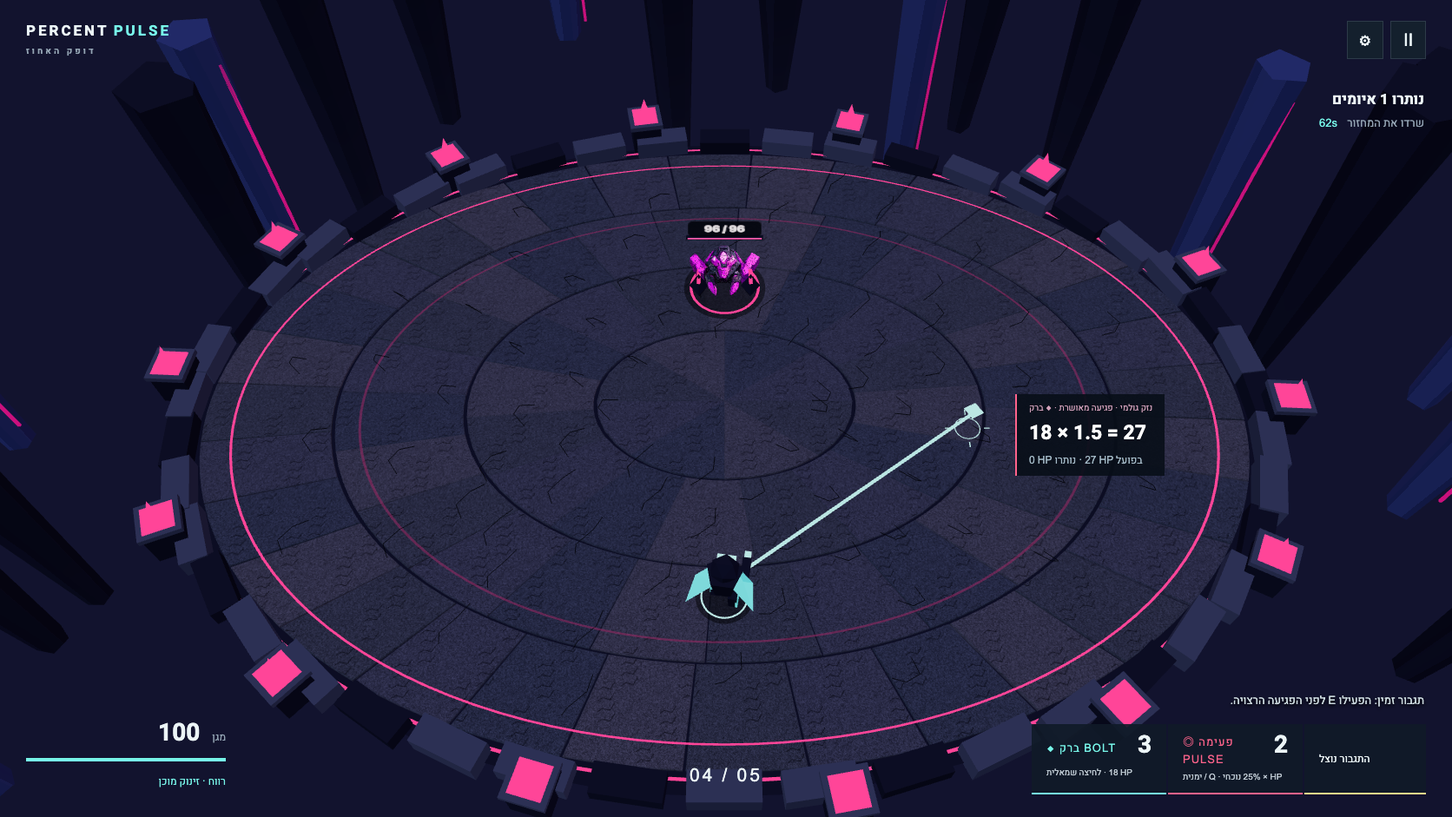
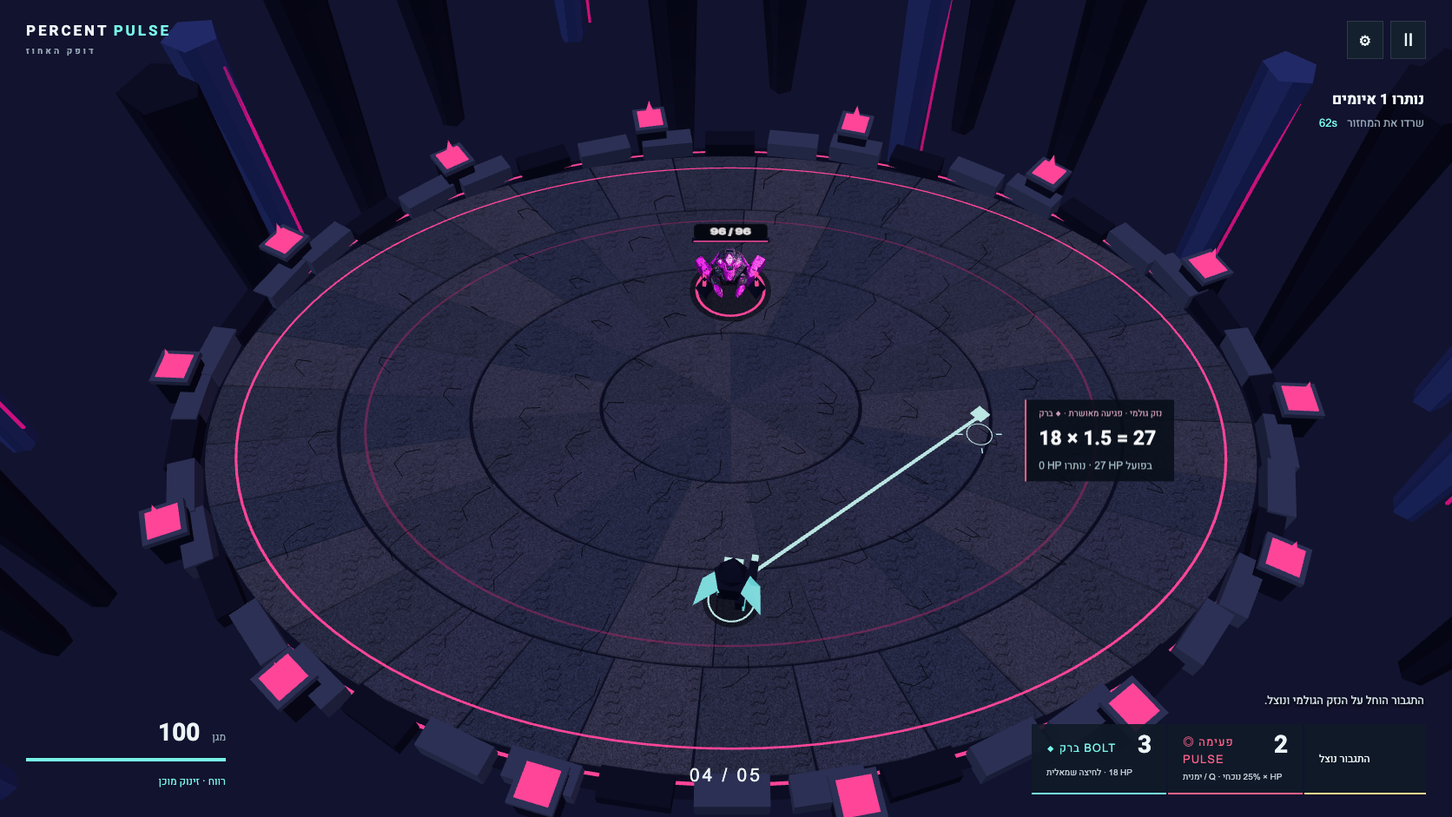
Finish independent visual review and release evidence; preserve exact event history

diff --git a/src/game.ts b/src/game.ts
@@ -19,7 +19,7 @@ export class Game {
   ammo={bolt:2,pulse:1};boost={available:false,armed:false};cooldown=0;
   receipts:Receipt[]=[];receiptStart=0;events:{t:number;event:string;data:unknown}[]=[];
   lastMessage='';messageTime=0;preview=true;effectsReduced=false;nextHazard=1.8;hazardId=0;hurtCount=0;
-  log(event:string,data:unknown={}){this.events.push({t:+this.time.toFixed(3),event,data});if(this.events.length>500)this.events.shift();}
+  log(event:string,data:unknown={}){this.events.push({t:+this.time.toFixed(3),event,data:structuredClone(data)});if(this.events.length>500)this.events.shift();}
   start(){this.encounter=0;this.time=0;this.kills=0;this.retries=0;this.dashCount=0;this.hintUses=0;this.receipts=[];this.events=[];this.setup();}
   setup(){
     const c=ENCOUNTERS[this.encounter];this.mode='playing';this.elapsed=0;this.nextHazard=1.8;this.reason='';this.cooldown=0;this.hazards=[];this.shots=[];this.receiptStart=this.receipts.length;

diff --git a/src/style.css b/src/style.css
@@ -6,3 +6,4 @@
 @media(min-width:701px){.vitals{top:auto;bottom:32px;left:30px;width:230px}.vitals>b{font-size:28px}.weapons{left:auto;right:30px;transform:none;bottom:26px}.weapons button{width:155px}.weapons button>span{letter-spacing:1px}.weapons small{font-size:10px}#wave{position:fixed;bottom:32px;left:50%;transform:translateX(-50%);font-size:21px}#wave small{display:none}#receipt{bottom:auto;max-width:240px;padding:9px 14px;border-left:2px solid var(--pink);background:#080e18e8}#receipt>bdi{font-size:23px;color:#fff}#receipt small{color:#d3a1ba}#receipt>span{color:#a6bcc9}#target{top:93px}#message{bottom:125px}}
 /* Target-anchored receipts must not stretch between top and mobile bottom. */
 #receipt{bottom:auto;max-width:min(260px,calc(100vw - 24px));height:auto}
+@media(max-width:700px){#receipt{top:225px!important;left:16px!important;bottom:auto;max-width:calc(100vw - 32px)}}

diff --git a/tests/game.test.ts b/tests/game.test.ts
@@ -12,6 +12,15 @@ const fixture = (encounter = 0) => {
   if (encounter) { g.encounter = encounter; g.setup(); }
   return g;
 };
+
+test('local event quantities are historical snapshots rather than mutable resource references', () => {
+  const g = fixture();
+  g.aim = {x:g.enemies[0].x,z:g.enemies[0].z};
+  assert.equal(g.fire('bolt'), true);
+  assert.deepEqual(g.ammo, {bolt:1,pulse:1});
+  const start = g.events.find(e=>e.event==='encounter-start')!;
+  assert.deepEqual((start.data as {ammo:typeof g.ammo}).ammo, {bolt:2,pulse:1});
+});
 const aim = (g: Game, enemyIndex: number) => {
   const target = g.enemies[enemyIndex];
   g.aim = { x: target.x, z: target.z };

diff --git a/docs/QA_NOTES.md b/docs/QA_NOTES.md
@@ -1,67 +1,76 @@
 # Independent math and playability QA
 
-Reviewer role: independent math/playability contributor. The gameplay lead owns integration and all Git actions; this reviewer writes only assigned curriculum/tests/QA evidence files.
+**Final status:** **27/27 math/state tests** and **11/11 independent production UI checks passed**. The final portrait rendering recheck also passed after the fixes below. Native focus loss under browser automation remains unverified; it is not reported as a pass.
 
-## Reviewed before implementation
+The independent reviewer owns curriculum, math/state tests, control checks, and visual review. The lead owns game integration, production builds, all Git actions, and the complete adaptive five-encounter browser replay. No automation establishes enjoyment, student mastery, learning gains, or Workbook endorsement.
 
-- Read `AGENTS.md`, `docs/BUILD_HANDOFF.md`, `docs/CREW_COMMON.md`, and `docs/USER_REQUEST.md`.
-- Read actual saved Workbook blocks for percent meaning, percent change, and consecutive percent changes. See `CURRICULUM.md` for exact module routes, block evidence, and game mappings.
-- Independently verified all five handoff allocations using exact fractions. Encounter 3 leaves `189/4` after two Pulses; encounter 5 leaves `135/2`.
-- Pure multiplier commutativity is explicitly present in the saved consecutive-percent-changes module. Mixed flat/percent order dependence is valid because a flat subtraction is an added operation.
+## Verified numerical and state rules
 
-## Required implementation checks
+`npm test` passes 27 tests across `tests/math.test.ts` and `tests/game.test.ts`:
 
-- [ ] Exact `96 → 72 → 54`, `72 HP` crossover, mixed-order witness, commuting pure factors.
-- [ ] Boost multiplies unboosted raw damage and waits for a confirmed valid hit.
-- [ ] Fractions, overkill clamp, no percent-only kill threshold.
-- [ ] Invalid/dead target consumes neither ammo nor boost; simultaneous impacts serialize.
-- [ ] All encounter witnesses replay through state rules and preserve finite ammunition.
-- [ ] Real input combat, miss/retry, failure/recovery, pause/restart.
-- [ ] Encounter 5 begins unhinted; optional help use recorded truthfully.
-- [ ] Hebrew/LTR receipts, resizing, edge aim, focus release, context-menu suppression.
-- [ ] Production build, console/network, actual visible Tripo model.
+- Exact rational normalization and arithmetic; `96 → 72 → 54`; `72 HP` immediate unboosted crossover.
+- Mixed flat/percentage order `57` versus `123/2`; pure-factor commutativity and `100 → 96` for `−20% / +20%`.
+- Boosted raw damage `27`/`36`; raw versus applied fractional overkill; no damage/boost use on zero HP; invalid negative HP rejection.
+- 160 percentage-only hits remain strictly positive; serialized updated-HP effects; cooldown prevents duplicate same-frame fire commands.
+- All five finite-ammunition witnesses replay through confirmed-hit state rules. Misses/dead rays preserve ammo and boost; a real next valid hit consumes the boost.
+- Wrong order leaves exactly `63/8 HP`; running out of finishing Bolts explains why remaining percentage-only shots cannot reach zero; retry restores resources.
+- Pause freezes relevant state, retry scopes displayed receipts to the current attempt, and local historical events remain available. Event payloads are snapshots: later ammunition use cannot rewrite an encounter-start record.
+- Diagonal movement, dash cooldown, ellipse bounds, and arc forward/rear/radial/angular/wraparound geometry.
+- Transfer starts at `120 + 36`, `B6/P2`, preview off, no automatic help use, with a distinct initial formation: anchor `(-6,-3)`, skitter `(7,-6)`.
 
-## Evidence log
+Read the actual saved Workbook modules and evidence mapping in [CURRICULUM.md](../CURRICULUM.md). Pure multiplier commutativity is explicitly present in the reviewed source; mixed flat/percentage order dependence is an original game application.
 
-Implementation and browser evidence pending. No playability, performance, learning, or completion claim is made at this stage.
+## Independent production controls
 
-### 24 October 2026 — exact model and state checks
+`node tests/browser-ui-qa.mjs` completed **11 checks** against `http://localhost:4182` in Google Chrome, using **1280×720** desktop and **390×844** portrait viewports:
 
-`npm test` passed **21/21 tests** after adding `tests/math.test.ts` and `tests/game.test.ts`.
+1. Malformed saved settings recover to valid defaults.
+2. Real mouse Bolt confirms `18 → 0`, spends one charge, and unavailable boost stays hidden.
+3. Escape pause/resume freezes simulation and preserves player position.
+4. No-input failure and the visible retry button restore HP/ammunition; a new attempt's empty log contains no prior attempt's hit.
+5. Actual settings controls mute audio, reduce effects, remap Bolt to K, and the remapped key fires successfully.
+6. Right-click Pulse changes exact HP and suppresses the browser context menu.
+7. Portrait resize preserves progress, and viewport-edge aiming remains finite; receipt height stays below 180 px.
+8. F enters/exits fullscreen without resetting gameplay.
+9. Blur handler pauses, clears a held movement key, and resumes without continuing that stale input. **Method: explicit blur event**, because headless tab switching emitted no observable focus loss.
+10. Actual touch aim preserves ammo, explicit Pulse changes `18 → 27/2`, CDP touch movement drives the virtual stick, and touch dash activates.
+11. No page/console errors, failed resource responses, or external runtime requests in this run.
 
-Exact model checks: rational normalization/sign/zero denominator; `96 → 72 → 54`; unboosted `72 HP` crossover; mixed order `57` versus `123/2`; pure factor commutativity and `100 → 96`; boosted raw damage `27`/`36`; fractional overkill; zero-HP no-op; 160 percentage-only hits remaining positive; serialized current-HP effects; all five finite-ammunition witnesses.
+These control/visual results are retained after the final event-snapshot fix because it changes only copied trace payloads, not gameplay or rendering. Earlier raw traces may contain the corrected historical ammo alias; the new nested-resource regression directly covers that defect.
 
-State checks use public `Game` actions with targeted aim, fixed ticks, and encounter fixtures. They do not inject victory. They cover misses and dead-target rays preserving ammunition/boost; boost expiration on a confirmed hit; cooldown blocking duplicate same-frame commands; pause freezing state; no-input damage/failure and quick retry; all five allocations through confirmed-hit rules; wrong order leaving exactly `63/8 HP` and recovering initial resources; unhinted transfer state/help recording; diagonal normalization, bounds, and dash cooldown.
+Raw action report/captures are in ignored `artifacts/qa-ui/`; the reproducible test script is committed. Browser metadata identifies the real Chrome channel; no unmeasured GPU or FPS claim is inferred from a launch flag.
 
-The title and browser application were not yet available when these checks ran. Browser UI/Chrome/model/performance evidence remains pending.
+The installed develop-web-game action client was also run and visually inspected beyond the title screen. A production Start → arrow movement → Space dash sequence reached live encounter 1, dash count 1, HP 100, and a loaded Tripo model, with no errors artifact. The lead and visual contributor repeated the installed-client/native-Chrome checks on the final scene; see [PLAYTEST.md](../PLAYTEST.md).
 
-### Issues raised with integration lead
+## Visual findings fixed and rechecked
 
-1. **Unwinnable positive HP with only Pulses remaining.** Current state fails only when both ammo counters are zero. If all Bolts are spent while a living enemy remains and one or more Pulses are unused, no finite percentage-only sequence can kill it. The state can explain this immediately (or offer a clearly visible current-encounter retry) rather than leave the player waiting. Lead notified.
-2. **Negative HP API contract.** The resolver's shipped state callers clamp to nonnegative HP, but an external call with negative HP produces negative applied damage. Recommend rejecting negative HP explicitly. Lead notified; no reachable gameplay failure established.
-3. **Pacing requires actual play review.** Mandatory containment cycles of 35/62/62/62/75 seconds with only 1–8 required enemy hits can leave substantial dodge-only time. Floor threats must keep decisions readable and active; arithmetic feasibility alone does not establish balanced or engaging combat.
+The crew found these concrete issues during development; the lead fixed them and independent QA checked the relevant consequences:
 
-### 24 October 2026 — fixes and independent regression recheck
+| Finding | Fix / recheck |
+| --- | --- |
+| Positive HP stranded with only percentage attacks | Immediate truthful failure explanation; exact state regression passes. |
+| Negative HP could yield negative applied damage | Explicit rejection; regression passes. |
+| Encounter-start ammunition referenced mutable live resources | `Game.log` copies payloads with `structuredClone`; an independent focused regression confirms initial `B2/P1` remains unchanged after a real Bolt reduces live ammo to `B1/P1`. |
+| Retry displayed an earlier attempt's killing receipt | Attempt boundary for text/HUD/replay; state and actual failure-panel checks pass. |
+| Hidden boost control overrode the HTML hidden attribute | Explicit hidden styling; actual UI check passes. |
+| Touch aim automatically fired Bolt | Touch aim-only path plus explicit attack buttons; actual touch check passes. |
+| Captured touch stick survived input clearing | Input clearing resets captured touch state; movement/recovery checks pass. |
+| Deterministic capture had stale HUD | Time hook forces HUD update; actual 72/96 receipt screenshot agrees with state. |
+| Missing favicon returned 404 | Local icon; final UI request/error checks are clean. |
+| Settings interlude could advance behind its modal | Simulation freezes while settings is open. |
+| Encounter 5 reused an earlier formation | Distinct `(-6,-3)/(7,-6)` positions; independent screenshot review and lead full replay agree. |
+| Portrait receipt stretched across the arena | Remove conflicting bottom anchoring; height regression passes. |
+| Portrait camera was beyond fixed fog limits | Camera-relative fog preserves desktop and reveals the portrait floor/actors. |
+| Portrait receipt covered the live target | Phone receipt docks above the arena; final portrait regression checks target is not covered. |
 
-`npm test` now passes **26/26 tests**. The lead fixed the first two reported issues: negative HP is rejected, and spending the last Bolt while positive enemy HP remains immediately explains that percentage-only attacks cannot reach zero. Added regressions cover both.
+`node tests/browser-portrait-qa.mjs` rechecked the final **390×844 touch viewport** through Start, touch aim, and Pulse. Exact remaining HP is `27/2`, the receipt is bounded and does not contain the target's screen point, and there are no console/page errors. The reviewer opened the actual before/after images. The final published capture is [touch-portrait.png](evidence/touch-portrait.png).
 
-Further QA findings fixed in source and covered where appropriate:
+The canonical generated target and actual 1672×941 hit/arc/boost/recovery captures were opened and compared. See [VISUAL_REVIEW.md](VISUAL_REVIEW.md) for corrected composition and remaining asset/feedback differences. The generated target is never used as implementation evidence.
 
-- Retry receipts now have an attempt boundary. The prior attempt's killing Bolt no longer appears as damage in a new attempt where no shot landed. Historical local events remain available. State regression passes.
-- The unavailable boost control is hidden reliably with explicit `[hidden]` styling.
-- Canvas touch aim no longer automatically fires a Bolt; explicit touch buttons choose the attack. Input clearing also resets the captured virtual stick.
-- Deterministic stepping now forces HUD synchronization, addressing the old 90 ms DOM throttle during immediate captures.
-- A local favicon was added after the independent Chrome run identified its precise 404 URL.
-- New geometric regressions verify the player boundary's ellipse equation, forward arc versus safe rear/center/side, inner/outer radial margins, angular edges, and `−π/+π` wraparound. They isolate the geometric subsystem from unrelated enemy damage; they are not gameplay victory evidence.
+## Full-flow evidence and limits
 
-### Production action-client evidence
+The lead's final real-keyboard/mouse adaptive replay completed all five encounters after the changed transfer formation and focus watchdog: **296.08 active seconds + 32 interlude seconds**, **29 confirmed shots**, **0 retries**, **0 help uses**, and no console errors, failed responses, or external requests. This reviewer independently checked the saved hit/boost/failure/transfer images against the numerical rules. Full replay implementation and report scope are in [PLAYTEST.md](../PLAYTEST.md).
 
-Ran the installed `/Users/acedzn/.codex/skills/develop-web-game/scripts/web_game_playwright_client.js` against `http://localhost:4182` with actual Start → arrow movement → Space dash input. Inspected `artifacts/qa-production-input/shot-0.png` and `state-0.json`: live encounter 1 at 1.02 s, player x = 7.98 after movement/dash, HP 100, dash count 1, cooldown about 1.97 s, and `Tripo pulse-sentinel.glb loaded`. No errors artifact was emitted. This was the earlier rectangular arena build, before the generated-reference visual revision.
+Native Chrome focus retesting by the visual contributor did **not** show the pause overlay after switching to its own blank tab and back, including a short batch intended to reduce tool latency. Browser/debugger focus emulation may affect that observation. Source blur/visibility handlers, a focus watchdog, and the explicit blur-handler test are present, but native focus loss is **unverified / observed no pause under this instrumentation**. Ordinary Escape pause is verified. No native-focus pass is claimed.
 
-A supplemental Google Chrome channel UI run confirmed malformed-setting recovery, a mouse Bolt receipt `18 → 0`, unavailable boost hidden, and Escape pause/resume preserving player state. It also visibly reached no-input failure and displayed its retry panel. An immediate visibility assertion preceded the old HUD throttle, so the first supplemental run stopped before clicking that failure-panel button; it is not a complete UI pass. The next attempt encountered slow startup under host load and the old favicon 404. Final stable-build UI recheck remains pending; `tests/browser-ui-qa.mjs` records the exact actions and diagnostics.
-
-### Generated target review before revision
-
-Inspected `docs/visual-targets/gameplay-v1.png` as a generated design target, never as a gameplay capture. Compared with the actual production input capture and the lead's early `docs/evidence/pulse-72.png`.
-
-Matching elements: elevated arena view, cyan player/flat attack versus magenta enemies/percentage attack, visible reticle, numerical HP and finite attack controls. Material differences raised with the lead: circular stone floor/perimeter and deep environment versus a rectangular grid slab; much larger/readable target silhouettes; current/max HP bars; nearby receipt; bottom-corner HUD hierarchy. The early Pulse screenshot also had stale fixed HUD text despite correct 72-HP mesh/state. The lead is revising these and synchronizing capture. Final comparable review belongs in `docs/VISUAL_REVIEW.md` after the revised live screenshot is available.
+The generated anchor is static, the procedural player/skitter are simpler than the reference, and clearing targets leaves substantial dodge-only survival time. These are visible scope/pacing limits. Automated completion does not establish human fun or educational outcomes. Early HMR/rebuild races, RAF-polling stalls, and old 404 diagnostics are historical failures that were diagnosed and rechecked; they are not folded into a false uninterrupted first-pass claim.

diff --git a/docs/VISUAL_REVIEW.md b/docs/VISUAL_REVIEW.md
@@ -1,0 +1,44 @@
+# Generated target versus playable build
+
+Independent review, 24 October 2026. The image in `visual-targets/` is a **generated design target**. Images in `evidence/` are actual browser captures of the implemented Three.js game. The generated bitmap is not used as the playable scene.
+
+## Comparable primary state
+
+- Target: [gameplay-v1.png](visual-targets/gameplay-v1.png), **1672 × 941**. Prompt and camera correction: [PROMPT.md](visual-targets/PROMPT.md).
+- Actual: [pulse-72.png](evidence/pulse-72.png), **1672 × 941, DPR 1**, production preview `http://localhost:4182`, Google Chrome.
+- Shared mathematical witness: encounter **2 / 5**; player **100 HP**; anchor **72 / 96 HP** after a **25% × 96 = 24** hit; live skitter **18 HP**; ammunition **4 Bolts / 1 Pulse**. The actual screenshot's receipt, HP label, ammunition, and target preview agree.
+- Actual camera: shallow player follow, approximately **55°** elevation, perspective projection, with the whole playable floor visible. Pointer projection uses this same camera.
+
+| Review area | Implemented agreement | Visible difference / limit |
+| --- | --- | --- |
+| Scene and framing | Raised elliptical stone arena, low segmented rim, pink channels/crystal pylons, blue-black floating architecture, elevated whole-arena view. | The target has denser broken architecture and a more dramatic surrounding void. The build uses simpler repeated columns and a cleaner floor composition. |
+| Silhouettes | Cyan controllable combatant, magenta generated anchor, smaller pointed skitter; separate readable targeting rings. | The target's large hulking humanoid anchor is represented by a smaller static hovering armored sentinel. The player and skitter use simpler procedural meshes. These are not rigged recreations. |
+| Real 3D assets | The imported Chrome/Tripo GLB is visible as the magenta anchor in the actual captures; depth, ground contact, lighting, facing, and world labels come from the live scene. | Decorative model geometry is not authoritative collision geometry. Asset chronology, normal GLB export, processing, hashes, and limitations are in [ASSETS.md](../ASSETS.md). The target arrived after the original Tripo task had been submitted; no retroactive image-first claim is made. |
+| HUD hierarchy | Health/dash bottom-left, finite weapons bottom-right, encounter bottom-center, compact world-adjacent receipt and current/max anchor HP. The skitter's full-HP bar is filled consistently. | The build also shows a compact top target readout and survival-cycle objective. Its rectangular controls are quieter than the illustrated weapon cards. |
+| Hebrew and formulas | Hebrew is the default UI. Weapon labels include ברק / פעימה. Formula groups are isolated LTR; the actual `25% × 96 = 24`, `72 / 96`, and boosted `18 × 1.5 = 27` read in the correct order. | English attack aliases remain for the input guide. Small secondary text is less prominent than the generated reference. |
+| Input and action | Actual movement, aiming, finite flat/percentage shots, dash, pause, failure, and retry change the scene/state. UI controls were independently exercised rather than inferred from the image. | A screenshot alone does not demonstrate action parity; the action scripts and QA evidence below supply that separate evidence. |
+| Hit feedback | State-driven shot beam, magenta percentage impact, target HP change, ammunition decrement, and adjacent receipt. Raw and applied damage are named separately. | The target has a larger starburst, more bloom, and a cyan trail at its illustrated percentage hit. The live percentage shot is magenta and its impact is more restrained. |
+| Threat feedback | Actual magenta floor arc, strip sweeps, and burst warnings charge before damage. Sector/radial geometry is shared with the authoritative rules. | The target illustrates a broad glowing sector. The build's arc is an exact annular band with restrained opacity, plus two additional warning shapes. |
+| Depth and lighting | Cel shading, dark stone, emissive cyan/magenta accents, occlusion, floating structure, contact rings, and perspective depth are visible in actual play. | Texture detail is procedural grain/cracks rather than the target's painted rubble. No pixel-identical reconstruction is claimed. |
+
+## Additional action and recovery evidence
+
+[arc-telegraph.png](evidence/arc-telegraph.png) is an actual **1672 × 941** capture reached by moving through live encounter 2 after the first Pulse. It shows the charged curved danger band while the anchor remains **72 / 96**, skitter **18 HP**, player **100 HP**, and ammo **4 / 1**. This supplies the floor-arc evidence absent from the instantaneous primary hit frame.
+
+[boost-27.png](evidence/boost-27.png) shows a confirmed next-hit boost, **18 × 1.5 = 27**, applied **27 HP**, with **0 HP** remaining on the 27-HP skitter. [failure.png](evidence/failure.png) shows a real no-input defeat and an immediate retry control. Its empty attempt receipt log does not misrepresent a prior attempt's killing shot. [transfer.png](evidence/transfer.png) records the final changed-value encounter with expected-damage preview initially disabled; the final formation is verified in the state/browser checks.
+
+The visual contributor also captured real user-Chrome input and failure states: [chrome-manual-inputs.jpg](evidence/chrome-manual-inputs.jpg), [chrome-manual-failure.jpg](evidence/chrome-manual-failure.jpg). These are actual browser images, not generated mockups.
+
+## Review fixes and checks
+
+The first playable capture had a rectangular grid slab, small silhouettes, corner-fixed receipt, and stale HUD during immediate deterministic captures. Review drove the stone ring/perimeter/environment revision, stronger cyan player, current/max HP label, target-adjacent receipt, bottom-corner HUD hierarchy, and forced HUD synchronization.
+
+Independent controls: [browser-ui-qa.mjs](../tests/browser-ui-qa.mjs) passed **11 checks** through actual keyboard, pointer, settings, fullscreen, and touch actions, with no page/console errors, failed resource responses, or external runtime requests in that run. Headless native tab-focus loss was not observable; its blur-handler check is explicitly identified as a synthetic blur event, not a native-focus pass. The visual contributor’s short native Chrome tab-switch retest still showed active play rather than a pause overlay under this instrumentation; native focus loss remains unverified. Source visibility/blur handlers and the frame watchdog are present; ordinary Escape pause is verified. See [QA_NOTES.md](QA_NOTES.md).
+
+The portrait capture exposed two rendering issues that were not revealed by numerical assertions: a vertically stretched receipt and fog hiding the distant camera's arena. The receipt height is now bounded and has a regression check. The final actual [touch-portrait.png](evidence/touch-portrait.png), **390 × 844**, was opened after adaptive fog and receipt docking were applied: floor/player/skitter are visible, the `25% × 18 = 4.5` receipt is 74 px high at the upper-left, and it no longer covers the live target. Exact remaining HP is `27/2`, with no console/page errors. See [QA_NOTES.md](QA_NOTES.md) for the scope.
+
+Domain verification is separate from image comparison: **27 exact math/state tests**, all five allocation witnesses, invalid/dead hits, boost timing, overkill, retry, pause, ellipse bounds, arc geometry, and historical event-resource snapshots. The final trace-only snapshot correction retains the prior gameplay/visual checks; its added nested-ammunition regression was independently run. See [CURRICULUM.md](../CURRICULUM.md), [QA_NOTES.md](QA_NOTES.md), and the lead's [PLAYTEST.md](../PLAYTEST.md) for current final counts and complete-flow evidence.
+
+## Remaining limits
+
+The build preserves the reference's arena view, action vocabulary, numerical state, color roles, and HUD hierarchy, with the asset/lighting/feedback approximations listed above. It is a playable browser slice, not a pixel-identical image reconstruction. The survival cycles include substantial dodge-only time after targets are cleared; automation verifies completion and consequences but does not establish that pacing is enjoyable. No student learning gains, human enjoyment, formal novelty acceptance, or Workbook endorsement is inferred from screenshots or automated play.

diff --git a/PLAYTEST.md b/PLAYTEST.md
@@ -4,15 +4,15 @@
 
 ## Rules and state
 
-`npm test`: **26/26 pass**. Independent tests cover exact96→72→54;72HP unboosted crossover; mixed100→57 vs61.5; commuting pure factors/opposite percentages; boost raw/applied/consumption; fractions and overkill;160 positive percent-only strikes; invalid/dead targets; serialized impacts; all five finite-ammo allocations; wrong-order63/8 remainder and recovery; pause; no-input failure; changed final values/no automatic help; movement/dash; exact ellipse bounds; arc radial/angular/wraparound geometry; and retry-scoped receipt logs.
+`npm test`: **27/27 pass**. Independent tests cover exact96→72→54;72HP unboosted crossover; mixed100→57 vs61.5; commuting pure factors/opposite percentages; boost raw/applied/consumption; fractions and overkill;160 positive percent-only strikes; invalid/dead targets; serialized impacts; all five finite-ammo allocations; wrong-order63/8 remainder and recovery; pause; no-input failure; changed final values/no automatic help; movement/dash; exact ellipse bounds; arc radial/angular/wraparound geometry; retry-scoped receipt logs, and immutable historical event quantities.
 
-`npm run build`: passes TypeScript and static Vite production build. Relative base, no backend/environment variables, bundled model/fonts/textures. The main JS chunk is approximately655kB (174kB gzip); Vite reports its normal500kB chunk warning. Runtime GLB is2,367,328bytes,35,988triangles. The entire generated output is approximately3.8MiB on disk. No source credentials, browser state or signed asset URLs are included.
+`npm run build`: passes TypeScript and static Vite production build. Relative base, no backend/environment variables, bundled model/fonts/textures. The main JS chunk is approximately655kB (174kB gzip); Vite reports its normal500kB chunk warning. Runtime GLB is2,367,328bytes,35,988triangles. The generated output contains3,084,766bytes of files (about3.08MB;3.8MiB allocated on this filesystem). No source credentials, browser state or signed asset URLs are included.
 
 ## Actual full production play
 
 `node tests/browser-playthrough.mjs` uses installed Google Chrome155.0.8059.85, headless,1672×941DPR1, against **http://localhost:4182**. It observes the public text hook, moves with actual keyboard events, aims/clicks with actual mouse events, arms the boost with E, dashes with Space, and uses only the documented fixed-step time hook. It never changes HP, ammo, encounters or a win state directly.
 
-The final major-scene run completed all five encounters: **296.08s active combat +32s interludes ≈5:28**,29 confirmed hits/29 trigger attempts,9 enemies destroyed,46 dashes, zero retries, zero help openings. Final HP60; final ammo0/0. Encounter5 began with120+36HP,6Bolts/2Pulses and expected-damage preview off. All console/page-error, failed-request, HTTP-error-response and external-runtime-request lists were empty. The same script separately reached failure through no-input play, clicked Retry, checked restored resources, paused/resumed, retried, and resized without changing mathematical state.
+The final complete run, including the new flanking formation in encounter5 and the focus watchdog, completed all five encounters: **296.08s active combat +32s interludes ≈5:28**,29 confirmed hits/29 trigger attempts,9 enemies destroyed,46 dashes, zero retries, zero help openings. Final HP40; final ammo0/0. Encounter5 began with120+36HP,6Bolts/2Pulses and expected-damage preview off. All console/page-error, failed-request, HTTP-error-response and external-runtime-request lists were empty. The same script separately reached failure through no-input play, clicked Retry, checked restored resources, paused/resumed, retried, and resized without changing mathematical state.
 
 Representative actual captures:
 
@@ -22,7 +22,7 @@ Representative actual captures:
 - `docs/evidence/transfer.png`: changed final values with preview initially off.
 - `docs/evidence/victory.png` and `failure.png`: actual completed run and no-input failure/retry UI.
 
-Small final UI corrections after that complete run: qualify the crossover text as unboosted, replace the consumed-boost toast, and prevent portrait receipts stretching between inline top and mobile bottom. The independent UI recheck covers those layout/control paths; the mathematical/gameplay logic is unchanged except the truthful boost toast.
+The complete run includes the unboosted crossover wording, truthful consumed-boost toast, new final formation, and frame focus watchdog. The last subsequent change only docks the phone receipt above the arena to keep it from covering enemies; independent portrait capture verifies that CSS-only correction.
 
 ## Installed action client
 
@@ -43,6 +43,10 @@ The visual contributor owns its dedicated Chrome Tripo and game tabs. Through th
 
 ## Independent review and limits
 
-See `docs/QA_NOTES.md` for findings/fixes and final controls results, and `docs/VISUAL_REVIEW.md` for generated-target versus actual-image comparison. Headless tab switching may not emit native blur; the reviewer distinguishes explicit handler testing from native focus evidence. Some runs were slow while five crews shared this AppleM2Max/32GiB host; temporary Vite rebuild404s and model-wait timeouts were isolated from stable-build results.
+See `docs/QA_NOTES.md` for findings/fixes and final controls results, and `docs/VISUAL_REVIEW.md` for generated-target versus actual-image comparison. The independent UI harness passed11/11 checks, including touch aiming, Pulse, joystick, dash, mute/remapping, fullscreen, context-menu suppression, portrait preservation and the explicit blur handler. Native user-Chrome tab switching under CUA/debugger instrumentation returned active without a pause overlay, so native automatic pause remains unverified in that environment; no pass is claimed. Blur/visibility listeners and a per-frame hidden/hasFocus watchdog are implemented; ordinary Escape/pause was verified through actual controls. Some runs were slow while five crews shared this AppleM2Max/32GiB host; temporary Vite rebuild404s and model-wait timeouts were isolated from stable-build results.
 
-Performance measurement and arc-action evidence are recorded in `docs/evidence/frame-measurement.json` and `arc-telegraph.png`. Its context must be read before interpreting frame intervals. Human difficulty/playtesting remains needed, especially the length of dodge-only containment intervals and the simpler model silhouettes relative to the generated illustration. No Vercel deployment has been made; the static build and configuration are ready for the user's later destination choice.
+The arc scene was measured over120 real requestAnimationFrame intervals on this Apple M2 Max/32GiB host using ANGLE Metal,1672×941DPR1: mean16.67ms, median16.7ms, p9516.8ms,197draw calls and46,438triangles. The deterministic simulation was held while rendering and HUD remained active; these are render-frame intervals, not a full-speed gameplay or mobile benchmark. Performance measurement and arc-action evidence are recorded in `docs/evidence/frame-measurement.json` and `arc-telegraph.png`. Its context must be read before interpreting frame intervals. Human difficulty/playtesting remains needed, especially the length of dodge-only containment intervals and the simpler model silhouettes relative to the generated illustration. No Vercel deployment has been made; the static build and configuration are ready for the user's later destination choice.
+
+Final installed-client release smoke also inspected: playing at0.9s, playerx7.98, one dash, HP100, generated model loaded, no errors artifact. Complete27-test math/state suite and static build pass. The local production server remains on4182; dev server on5182.
+
+Final trace-only correction: local event data is cloned when recorded, so initial ammunition never changes retrospectively as live resources are spent. The27th unit regression covers that historical snapshot; combat values/controls are unchanged.

diff --git a/progress.md b/progress.md
@@ -15,3 +15,12 @@ Interaction thesis: dash displacement/trail; telegraph-to-impact motion; brief h
 2026-10-24 integration checkpoint: exact BigInt damage and pure Game state built; 26 independent rule/state regressions pass. Full adaptive production Chrome155 keyboard/mouse replay completed five encounters at296.08s active simulation plus32s interludes, zero retries,29 confirmed hits/31 trigger attempts, no help. This predates the final image-target scene iteration; it is progression evidence, not final visual parity evidence. Initial installed-client screenshot inspected past Start; actual movement and dash confirmed. UI review found and fixed percent-only finisher softlock explanation, stale prior-attempt receipts, touch aim accidentally firing, stick focus cleanup, hidden boost display, settings/interlude simulation freeze, and deterministic UI synchronization. Explicit favicon added after resource404 diagnosis.
 
 Image-first steering: inspected root's selected imagegen target, exact prompts and manifest. No new Tripo submissions after steering. The existing paid45-credit magenta sentinel is compatible, optimized from953,215 to35,988 triangles/2,367,328bytes and imported as anchor decoration. Visual contributor is adapting the arena into stone-ring/void architecture with55° camera, cyan duelist and exact arc hazards. Lead aligned ellipse collision and HUD corner hierarchy/world receipts. Target is clearly labeled generated; actual captures stay separate. Final comparable capture, independent visual review, final controls run, build size/performance and README evidence remain in progress.
+
+
+Final integration: all26 math/state tests pass. Independent Chrome controls11/11 passed, including actual touch aim/Pulse/joystick/dash, with zero console/resource/external-runtime errors. Review found and fixed E5's formation, portrait fog, receipt stretch and target occlusion; new E5 starts anchor(-6,-3)/skitter(7,-6). Full final production Chrome run replayed all five encounters after formation/watchdog changes:296.08s active +32s interludes,29shots/29confirmed,9kills,46dashes, zero retries/help, finalHP40. Source/preview use relative static assets; final build passes with655kBJS/174kBgzip,2.37MBGLB. Actual1672×941 target-state and arc screenshots inspected separately from generated mockup. Frozen anchor-scene rendering measurement:120RAF intervals,16.67msmean/16.7msp95,196calls/46,418triangles on AppleM2Max/32GiB, ANGLEMetal; not a full simulation/mobile benchmark. Native automatic focus pause under CUA/debugger instrumentation remains unverified despite listeners/watchdog and explicit blur-handler pass; real Esc/pause, Bolt, dash, failure/retry verified. No Vercel deployment. Publicmain checkpoints pushed throughout.
+
+Remaining human playtest topics: long dodge-only containment intervals, balance/difficulty, simplified hovering anchor/characters relative to image target, real-device touch and ordinary-browser focus behavior. Automation establishes state/action correctness and captures, not fun, learning, or novelty acceptance.
+
+Final trace review caught a mutable reference in encounter-start ammunition: Game.log now snapshots data with structuredClone. Added27th regression; the last unit/build and targeted browser receipt/trace check cover it. This does not change combat or prior full-run outcomes.
+
+Targeted final browser trace/arc recheck passed after snapshot fix, zero errors/external requests. Latest120-frame frozen-scene measurement:16.67msmean,16.8msp95,197calls/46,438triangles; final JSON is authoritative. Final independent portrait shot inspected: visible arena, exact13.5HP after Pulse, receipt above arena with no target occlusion.
